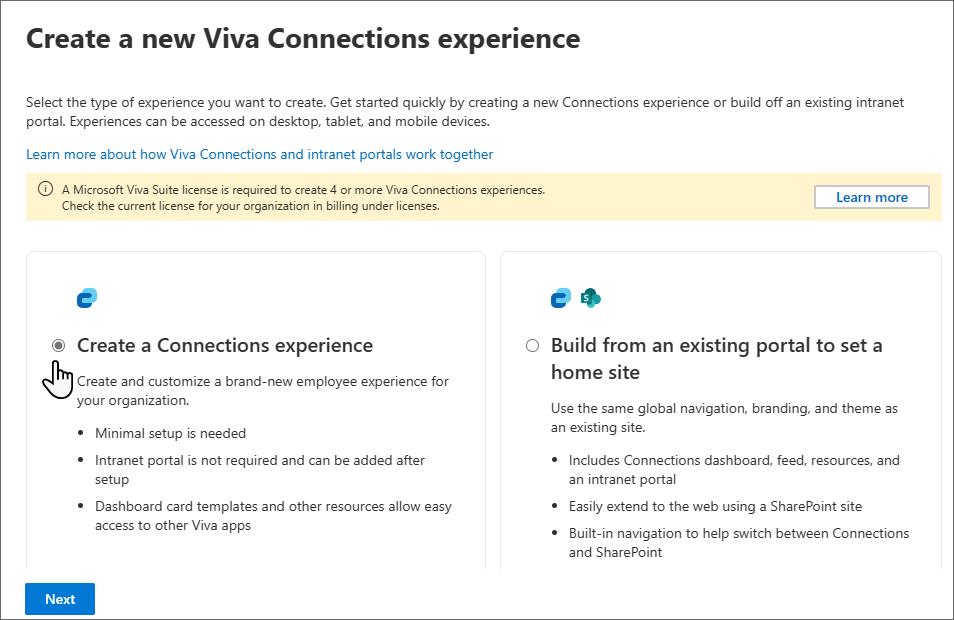
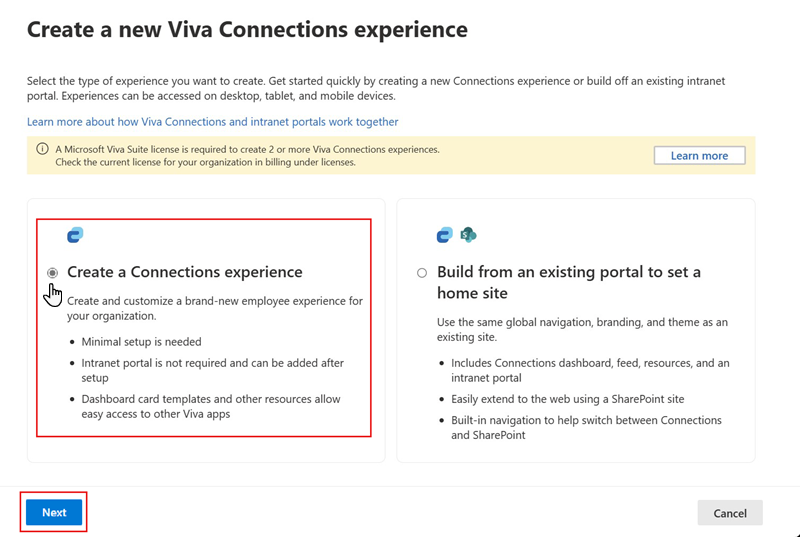
Updates to Viva Connections documentation
- Updated several VC documents to remove mention of new VC MAC experience rolling out to GA at the end of July 2023.
- Updated two screenshots in set-up-admin-center
- Rolled back removal of Viva from Viva Connections in announcements-viva-connections.md

diff --git a/Viva/connections/announcements-viva-connections.md b/Viva/connections/announcements-viva-connections.md
@@ -1,6 +1,6 @@
 ---
 ms.date: 08/04/2023
-title: "Use announcements in Connections"
+title: "Use announcements in Viva Connections"
 ms.reviewer: 
 ms.author: evanatkin
 author: AtkinE
@@ -24,24 +24,24 @@ ROBOTS: NOINDEX, NOFOLLOW
 description: "Use announcements in Viva Connections"
 ---
 
-# Use announcements in Connections
+# Use announcements in Viva Connections
 
-Announcements allow you to create and share time-sensitive messages in Connections. You can set up, manage, and schedule announcements from your organization’s SharePoint home site.
+Announcements allow you to create and share time-sensitive messages in Viva Connections. You can set up, manage, and schedule announcements from your organization’s SharePoint home site.
 
-:::image type="content" source="../media/connections/announcements-viva-connections/announcement-tablet-mobile.png" alt-text="Screenshot that shows what an announcement in Connections looks like on a tablet and mobile device."lightbox="../media/connections/announcements-viva-connections/announcement-tablet-mobile.png":::
+:::image type="content" source="../media/connections/announcements-viva-connections/announcement-tablet-mobile.png" alt-text="Screenshot that shows what an announcement in Viva Connections looks like on a tablet and mobile device."lightbox="../media/connections/announcements-viva-connections/announcement-tablet-mobile.png":::
 
 > [!NOTE]
 >
 > - This experience is rolling out to targeted release customers now and will become generally available by September 2023.
-> - The first release of the announcement feature is only available to customers with a SharePoint home site but will become available to all Connections customers in the fall.
+> - The first release of the announcement feature is only available to customers with a SharePoint home site but will become available to all Viva Connections customers in the fall.
 > - The first release of the announcement feature will only be available for mobile and tablet devices.  Support for desktop devices will become available in September 2023.
 > - You must have member permissions or higher to your organization’s SharePoint homes site to send and manage announcements.
 
 ## When to use announcements
 
-:::image type="content" source="../media/connections/announcements-viva-connections/announcement-example.png" alt-text="Screenshot of an open announcement in Connections mobile."lightbox="../media/connections/announcements-viva-connections/announcement-example.png":::
+:::image type="content" source="../media/connections/announcements-viva-connections/announcement-example.png" alt-text="Screenshot of an open announcement in Viva Connections mobile."lightbox="../media/connections/announcements-viva-connections/announcement-example.png":::
 
-Announcements are the best way to communicate targeted, time-sensitive information in the Connections app.
+Announcements are the best way to communicate targeted, time-sensitive information in the Viva Connections app.
 
 **Example Scenarios:**
 
@@ -61,7 +61,7 @@ Announcements are the best way to communicate targeted, time-sensitive informati
 - Specify which audiences need to receive the announcement to ensure the highest engagement possible.
 - Allow users to dismiss announcements for less-urgent topics or when there are several high-impact announcements active at the same time.
 
-## How announcements display in Connections
+## How announcements display in Viva Connections
 
 > [!IMPORTANT]
 > Announcements are currently only viewable on tablet and mobile experiences. The ability to view announcements on desktop is planned for future releases.
@@ -69,23 +69,23 @@ Announcements are the best way to communicate targeted, time-sensitive informati
 **In Teams**: Users get a Teams notification alerting them of a new announcement on their device’s lock screen  when the user has enabled it.
 
 > [!NOTE]
-> Connections announcement notifications being displayed in the Teams activity feed is scheduled for a future release.
+> Viva Connections announcement notifications being displayed in the Teams activity feed is scheduled for a future release.
 
 :::image type="content" source="../media/connections/announcements-viva-connections/mobile-announcement-lockscreen.png" alt-text="Screenshot of an Teams notification displayed on the lock-screen of a mobile device."lightbox="../media/connections/announcements-viva-connections/mobile-announcement-lockscreen.png":::
 
-**In Connections**: Announcements display towards the top of the Connections experience where more details can be viewed.
+**In Viva Connections**: Announcements display towards the top of the Viva Connections experience where more details can be viewed.
 
-:::image type="content" source="../media/connections/announcements-viva-connections/mobile-announcement-notification.png" alt-text="Screenshot of an open announcement in the Connections mobile app."lightbox="../media/connections/announcements-viva-connections/mobile-announcement-notification.png":::
+:::image type="content" source="../media/connections/announcements-viva-connections/mobile-announcement-notification.png" alt-text="Screenshot of an open announcement in the Viva Connections mobile app."lightbox="../media/connections/announcements-viva-connections/mobile-announcement-notification.png":::
 
 ## How to create an announcement
 
 > [!NOTE]
-> Announcements are currently only able to be authored from a SharePoint home site. Authoring an announcement from the Connections desktop is planned for future release.
+> Announcements are currently only able to be authored from a SharePoint home site. Authoring an announcement from the Viva Connections desktop is planned for future release.
 
 1. There are three ways to access announcements to create a new announcement from a SharePoint home site:
     1. Select **+New** from the command bar and choose **Announcement**.
     1. Select **Announcements** from the site navigation and then **+ New announcement**.
-    1. Navigate to **Settings** > **Manage Connections** > **Announcements** > **+ New announcement**.
+    1. Navigate to **Settings** > **Manage Viva Connections** > **Announcements** > **+ New announcement**.
 
    :::image type="content" source="../media/connections/announcements-viva-connections/create-announcement-overview.png" alt-text="Screenshot of a SharePoint home site highlighting three options for starting a new announcement."lightbox="../media/connections/announcements-viva-connections/create-announcement-overview.png":::
 

diff --git a/Viva/connections/viva-connections-setup-overview.md b/Viva/connections/viva-connections-setup-overview.md
@@ -29,7 +29,6 @@ Use [Viva Connections](viva-connections-overview.md) to engage and empower diffe
 
 > [!NOTE]
 >
-> - The Viva Connections admin center experience is rolling out to private preview customers now and is expected to become generally available to all customers by the end of July 2023.
 > - You must have an Enterprise (E) or Frontline (F) license type to create a Viva Connections experience. Users with a basic Microsoft 365 subscription (E license) are limited to creating one experience. Users are required to have a Microsoft Viva suite or Viva Communities & Connections license in order to create two or more experiences (up to ten). See [Microsoft Viva plans and pricing](https://www.microsoft.com/microsoft-viva/pricing) for more info.
 > - Viva Connections does not have any requirements to get started.
 > - You must have Global Admin or SharePoint admin permissions to access the Microsoft 365 admin center.
@@ -37,7 +36,6 @@ Use [Viva Connections](viva-connections-overview.md) to create experiences that 
 
 > [!NOTE]
 >
-> - This experience is rolling out to private preview customers now and is expected become generally available to all customers by the end of July 2023.
 > - In the latest release, the ability to set a home site will move from the SharePoint Admin Center (SPAC) to the Viva Connections admin center.
 
 - Use this guide to prepare your organization for Viva Connections through the [planning](plan-viva-connections.md), [building](build-viva-connections.md), and [launching](launch-viva-connections.md) phases.

diff --git a/Viva/connections/home-site-plan.md b/Viva/connections/home-site-plan.md
@@ -36,7 +36,6 @@ A SharePoint home site provides a customized landing experience that reflects th
 > [!NOTE]
 >
 > - A home site is not required for the latest release of the Viva Connections desktop, mobile, or tablet experience. [Learn more about the new experience](set-up-admin-center.md), [how to customize it](edit-viva-home.md), how to choose the default landing experience, and [how to onboard new users](https://support.microsoft.com/office/access-and-use-the-viva-connections-app-in-microsoft-teams-8b4e7f76-f305-49a9-b6d2-09378476f95b).
-> - In the latest release, users will be able to set multiple home sites by using multiple Viva Connections experiences. The feature is currently under private preview and is expected to start rolling out broadly by the end of July 2023.  
 > - In the latest release, the ability to set a home site will move from the SharePoint Admin Center (SPAC) to the Viva Connections admin center.
 > - You must have an Enterprise (E) or Frontline (F) license type to create a Viva Connections experience. Users with a basic Microsoft 365 subscription (E license) are limited to creating one experience. Users are required to have a Microsoft Viva suite or Viva Communities & Connections license in order to create two or more experiences (up to ten). See [Microsoft Viva plans and pricing](https://www.microsoft.com/microsoft-viva/pricing) for more info.
 > - Viva Connections does not have any requirements to get started.

diff --git a/Viva/connections/build-viva-connections.md b/Viva/connections/build-viva-connections.md
@@ -1,5 +1,5 @@
 ---
-ms.date: 6/19/2023
+ms.date: 08/07/2023
 title: "Build Viva Connections for your organization"
 ms.reviewer: 
 ms.author: evanatkin
@@ -37,9 +37,6 @@ You know you're ready to move onto the building phase if you've met the followin
 Start by creating the Viva Connections dashboard. Then, you'll select settings for the mobile app. Next, you will make sure content that’s on the home site and linked to cards on the dashboard can be accessed by the right audiences and offers the ideal viewing experience. Lastly, you will test and refine the experience before launching to the rest of the organization.  
 
 ## Step 1: Enable the Viva Connections app in the Microsoft Teams admin center and choose settings
-
-> [!NOTE]
-> This experience is rolling out to private preview customers now and is expected to become generally available to all customers by the end of July 2023.
 
 [Setting up Viva Connections](set-up-admin-center.md) creates a custom app in Microsoft Teams. Your organization’s custom app will appear as a branded company app in the Microsoft Teams app center. Once the app is added, your organization’s icon will appear in the Teams app bar in the desktop and mobile Microsoft Teams app. Make sure to [pin the app](set-up-admin-center.md#pin-the-viva-connections-app-in-teams) so your users can find it.
 

diff --git a/Viva/connections/set-up-admin-center.md b/Viva/connections/set-up-admin-center.md
@@ -1,5 +1,5 @@
 ---
-ms.date: 08/04/2023
+ms.date: 08/07/2023
 title: Set up Viva Connections in the Microsoft 365 admin center 
 ms.reviewer: 
 ms.author: evanatkin
@@ -31,7 +31,6 @@ description: "Learn how to set up Viva Connections in the Microsoft 365 admin ce
 
 > [!NOTE]
 >
-> - This experience is rolling out to private preview customers now and is expected to become generally available to all customers by the end of July 2023.
 > - You must have an Enterprise (E) or Frontline (F) license type to create a Viva Connections experience.
 > - Viva Connections does not have any requirements to get started.
 > - Users with a basic Microsoft 365 subscription (E license) are limited to creating one experience. Users are required to have a Microsoft Viva suite or Viva Communities & Connections license in order to create two or more experiences (up to ten). See [Microsoft Viva plans and pricing](https://www.microsoft.com/microsoft-viva/pricing) for more info.

diff --git a/Viva/connections/plan-viva-connections.md b/Viva/connections/plan-viva-connections.md
@@ -27,7 +27,6 @@ description: "Plan Microsoft Viva Connections for your organization"
 
 > [!NOTE]
 >
-> - This experience is rolling out to private preview customers now and is expected become generally available to all customers by the end of July 2023.
 > - You must have an Enterprise (E) or Frontline (F) license type to create a Viva Connections experience. Users with a basic Microsoft 365 subscription (E license) are limited to creating one experience. Users are required to have a Microsoft Viva suite or Viva Communities & Connections license in order to create two or more experiences (up to ten). See [Microsoft Viva plans and pricing](https://www.microsoft.com/microsoft-viva/pricing) for more info.
 > - Viva Connections does not have any requirements to get started.
 > - You must have Global Admin or SharePoint admin permissions to access the Microsoft 365 admin center.
